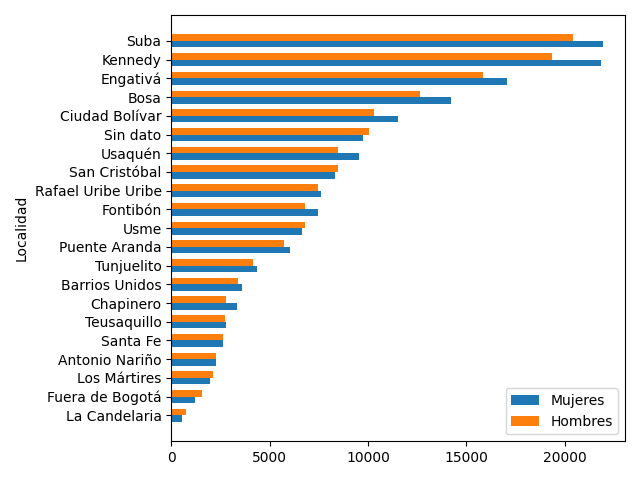
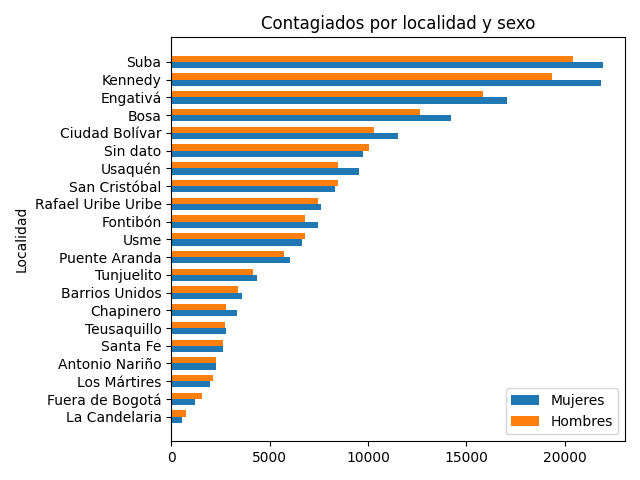
cambios

Changed region(s): [[0.0, 0.0312, 0.9688, 0.875]]

diff --git a/codes/bogota.py b/codes/bogota.py
@@ -18,7 +18,7 @@ def estado(table_name, conn):
     ax.set_title("Estado contagiados")
     plt.tight_layout(pad=0.4, w_pad=0.5, h_pad=1.5)
     plt.savefig('plots/estado')
-    #plt.show()
+    plt.show()
 
 def ubicacion(table_name, conn):
     casos = make_query(
@@ -102,9 +102,10 @@ def localidad_sexo(table_name, conn):
     ax.set_yticks(y)
     ax.set_yticklabels(casosf['LOCALIDAD_ASIS'])
     ax.legend()
-    
+    plt.title('Contagiados por localidad y sexo')
     fig.tight_layout()
     fig.savefig('plots/localidad_sexo.png')
+    plt.show()
 
 
 def localidad(table_name, conn):
